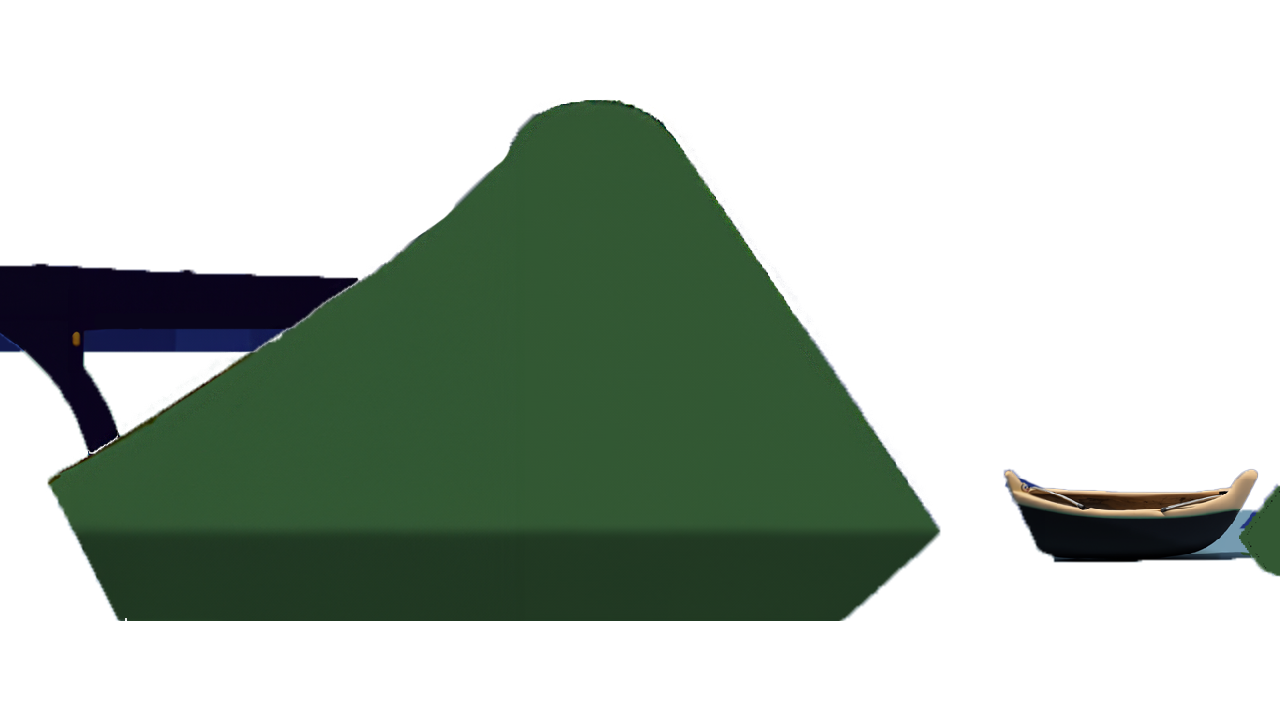
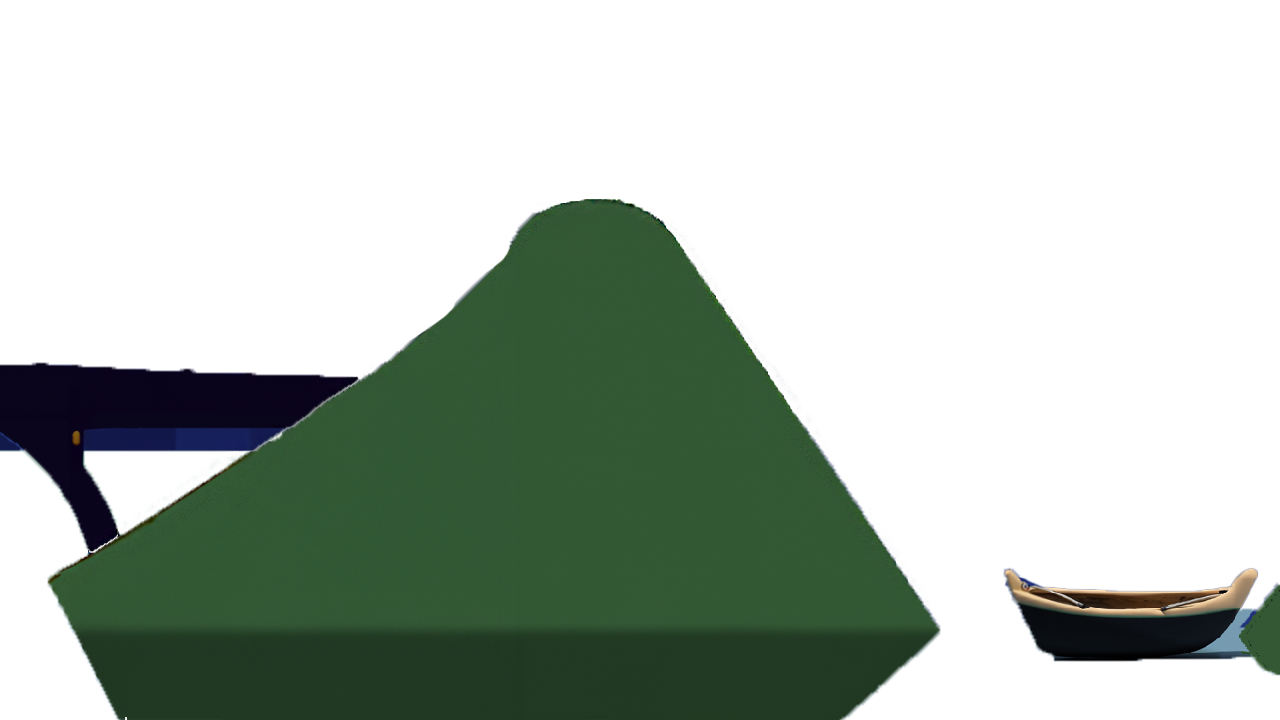
maps

diff --git a/main.py b/main.py
@@ -20,8 +20,11 @@ SCREEN_HEIGHT = 720
 BLACK = (0, 0, 0)
 
 map_obj_2 = Map_Masks(pygame.image.load('map2_objects.png').convert_alpha())
+map_obj_3 = Map_Masks(pygame.image.load('map_3_obj.png').convert_alpha())
+map_obj_4 = Map_Masks(pygame.image.load('map_4_obj.png').convert_alpha())
+map_obj_3.image = pygame.transform.scale(map_obj_3.image, (SCREEN_WIDTH, SCREEN_HEIGHT))
 
-map_object_list = [map_obj_2]
+map_object_list = [map_obj_2, map_obj_3, map_obj_4]
 map_group = pygame.sprite.Group()
 
 
@@ -297,11 +300,11 @@ class Projectile(pygame.sprite.Sprite):
                 current_player.draw_health()
                 pygame.display.update()
 
-                for tile in tile_rects:
-                    if self.rect.colliderect(tile):
-                        time.sleep(0.5)
-                        run = False
-                        break
+                # for tile in tile_rects:
+                #     if self.rect.colliderect(tile):
+                #         time.sleep(0.5)
+                #         run = False
+                #         break
                 if (self.rect.centerx > SCREEN_WIDTH + 200 or
                     self.rect.centery > SCREEN_HEIGHT + 200):
                     time.sleep(0.5)
@@ -409,10 +412,10 @@ class Enemy_Projectile(pygame.sprite.Sprite):
             self.rect.y = y
             pygame.display.update()
 
-            for tile in tile_rects:
-                if self.rect.colliderect(tile):
-                    time.sleep(0.5)
-                    return False
+            # for tile in tile_rects:
+            #     if self.rect.colliderect(tile):
+            #         time.sleep(0.5)
+            #         return False
 
             map_collisions = pygame.sprite.groupcollide(map_group, enemy_projectile_group,
                                                     False, False, pygame.sprite.collide_mask)
@@ -1187,7 +1190,10 @@ def level_menu():
                                     40, 40, window, level_two_enemy[i][0],
                                     level_two_enemy[i][1], 1)
                         enemy_group.add(level_two_enemies[i])
-                        map_group.add(map_object_list[0])
+                    map_group.add(map_object_list[0])
+                    current_player.x = 100
+                    current_player.y = 320
+                    current_player.rect.center = (current_player.x, current_player.y)
                     level_play(level_info[1])
 
                 elif event.button == 1 and level_3_button.is_pressed():
@@ -1199,7 +1205,7 @@ def level_menu():
                                     40, 40, window, level_three_enemy[i][0],
                                     level_three_enemy[i][1], 1)
                         enemy_group.add(level_three_enemies[i])
-                        map_group.add(map_object_list[1])
+                    map_group.add(map_object_list[1])
                     level_play(level_info[2])
 
                 elif event.button == 1 and level_4_button.is_pressed():
@@ -1211,7 +1217,7 @@ def level_menu():
                                     40, 40, window, level_four_enemy[i][0],
                                     level_four_enemy[i][1], 1)
                         enemy_group.add(level_four_enemies[i])
-                        map_group.add(map_object_list[2])
+                    map_group.add(map_object_list[2])
                     level_play(level_info[3])
 
                 elif event.button == 1 and level_5_button.is_pressed():
@@ -1223,7 +1229,7 @@ def level_menu():
                                     40, 40, window, level_five_enemy[i][0],
                                     level_five_enemy[i][1], 1)
                         enemy_group.add(level_five_enemies[i])
-                        map_group.add(map_object_list[3])
+                    map_group.add(map_object_list[3])
                     level_play(level_info[4])
 
                 elif event.button == 1 and level_6_button.is_pressed():
@@ -1235,7 +1241,7 @@ def level_menu():
                                     40, 40, window, level_six_enemy[i][0],
                                     level_six_enemy[i][1], 1)
                         enemy_group.add(level_six_enemies[i])
-                        map_group.add(map_object_list[4])
+                    map_group.add(map_object_list[4])
                     level_play(level_info[5])
 
                 elif event.button == 1 and level_7_button.is_pressed():
@@ -1247,7 +1253,7 @@ def level_menu():
                                     40, 40, window, level_seven_enemy[i][0],
                                     level_seven_enemy[i][1], 1)
                         enemy_group.add(level_seven_enemies[i])
-                        map_group.add(map_object_list[5])
+                    map_group.add(map_object_list[5])
                     level_play(level_info[6])
 
                 elif event.button == 1 and level_8_button.is_pressed():
@@ -1259,7 +1265,7 @@ def level_menu():
                                     40, 40, window, level_eight_enemy[i][0],
                                     level_eight_enemy[i][1], 1)
                         enemy_group.add(level_eight_enemies[i])
-                        map_group.add(map_object_list[6])
+                    map_group.add(map_object_list[6])
                     level_play(level_info[7])
 
                 elif event.button == 1 and level_9_button.is_pressed():
@@ -1271,7 +1277,7 @@ def level_menu():
                                     40, 40, window, level_nine_enemy[i][0],
                                     level_nine_enemy[i][1], 1)
                         enemy_group.add(level_nine_enemies[i])
-                        map_group.add(map_object_list[7])
+                    map_group.add(map_object_list[7])
                     level_play(level_info[8])
 
                 elif event.button == 1 and level_10_button.is_pressed():
@@ -1283,7 +1289,7 @@ def level_menu():
                                     40, 40, window, level_ten_enemy[i][0],
                                     level_ten_enemy[i][1], 1)
                         enemy_group.add(level_ten_enemies[i])
-                        map_group.add(map_object_list[8])
+                    map_group.add(map_object_list[8])
                     level_play(level_info[9])
 
                 elif event.button == 1 and back_button.is_pressed():

diff --git a/level_info.py b/level_info.py
@@ -64,14 +64,21 @@ map_22 = """
 airport_background = pygame.image.load("completed_airport_background.png")
 airport_background = pygame.transform.scale(airport_background, (SCREEN_WIDTH, SCREEN_HEIGHT))
 
-map_2_background = pygame.image.load("map2.png")
+map_2_background = pygame.image.load("map2_background.png")
 map_2_background = pygame.transform.scale(map_2_background, (SCREEN_WIDTH, SCREEN_HEIGHT))
+
+
+map_3_background = pygame.image.load("map3_background.png")
+map_3_background = pygame.transform.scale(map_3_background, (SCREEN_WIDTH, SCREEN_HEIGHT))
+
+map_4_background = pygame.image.load("map4_background.png")
+map_4_background = pygame.transform.scale(map_4_background, (SCREEN_WIDTH, SCREEN_HEIGHT))
 
 # screen, map background, map tiles, tile size, rpojectile starting coords, min angle, max angle
 level_1_info = [airport_background, map_1, 40, [20, (SCREEN_HEIGHT - 120)], 0, 90]
 level_2_info = [map_2_background, map_1, 20, [20, (SCREEN_HEIGHT - 120)], 30, 90]
-level_3_info = []
-level_4_info = []
+level_3_info = [map_3_background, map_1, 20, [20, (SCREEN_HEIGHT - 120)], 30, 90]
+level_4_info = [map_4_background, map_1, 20, [20, (SCREEN_HEIGHT - 120)], 30, 90]
 level_5_info = []
 level_6_info = []
 level_7_info = []
